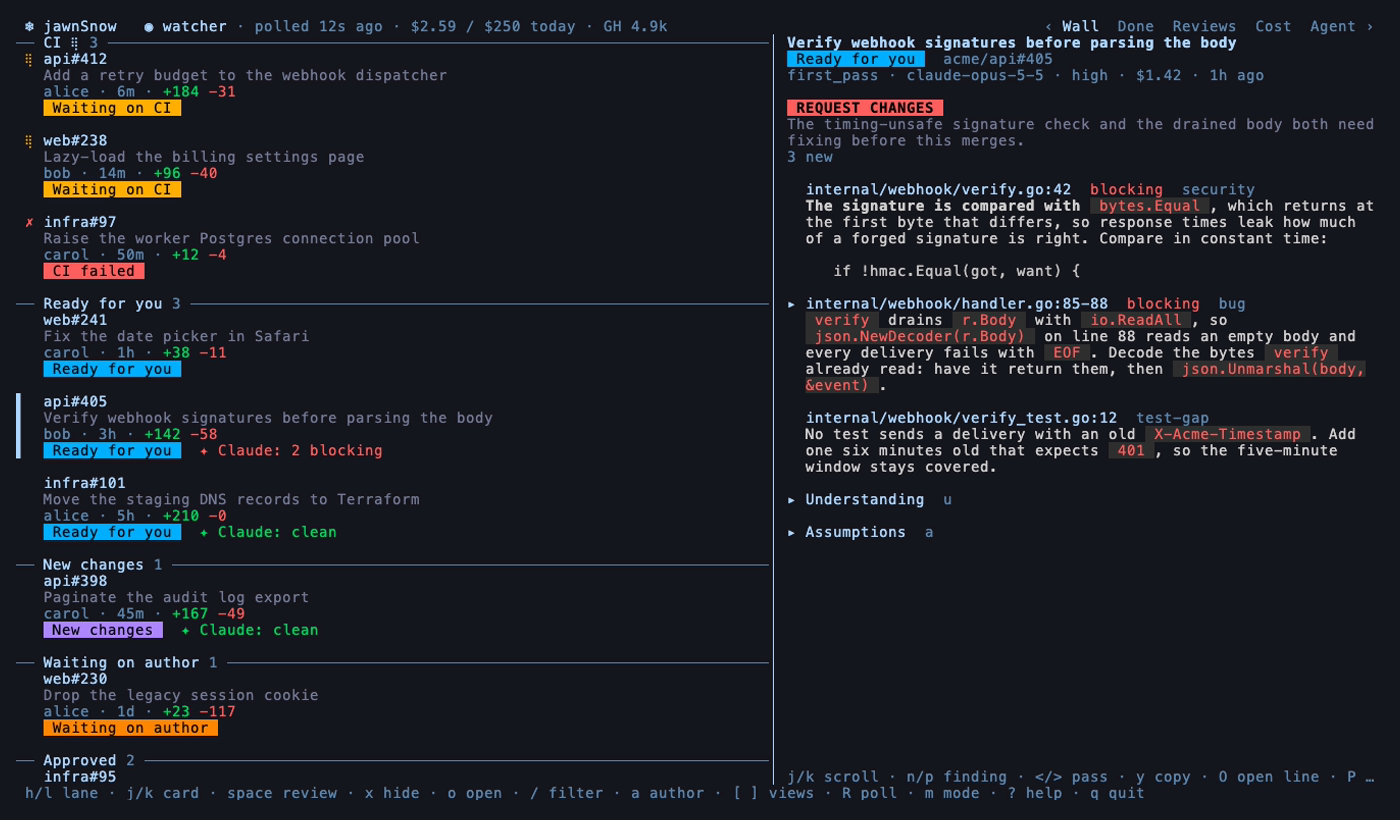
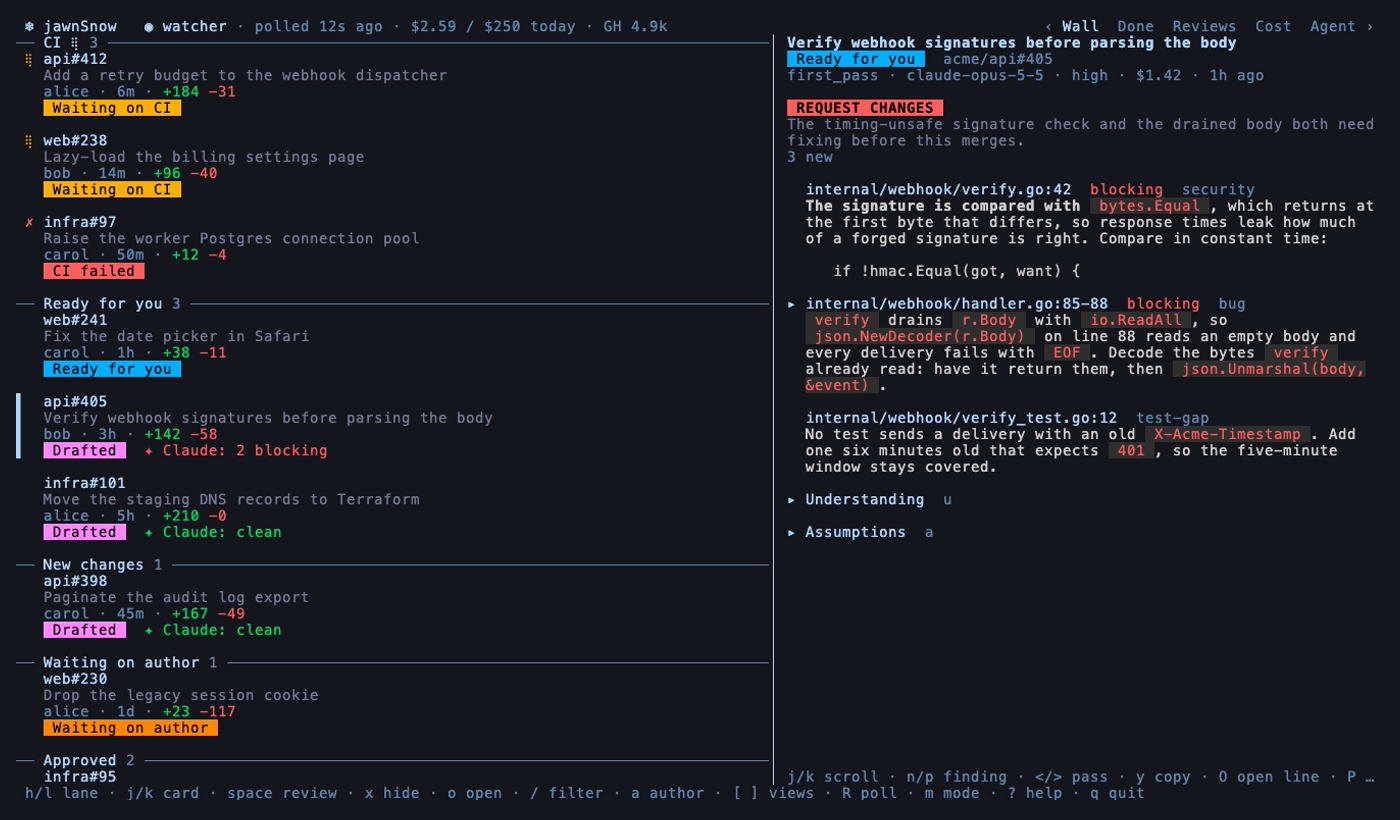
docs: describe the Drafted pill and re-record the demo
views.md says when a card shows Drafted and when it clears, and that it
is not a status. configuration.md lists the DRAFTED theme key, and
posting.md says the pill clears at once and which lane each event moves
the card to at the next poll.

The re-recorded drawer screenshot and demo show Drafted on the reviewed
cards in the stacked Wall. wall.png is unchanged: in side-by-side lanes
at the tape's width the pill and the badge don't both fit, so the badge
takes the chip's place as before.

Changed region(s): [[0.0307, 0.5183, 0.2764, 0.5793], [0.0307, 0.7317, 0.2457, 0.7927], [0.0307, 0.6402, 0.2457, 0.6707]]

diff --git a/docs/views.md b/docs/views.md
@@ -80,6 +80,29 @@ A card has four lines:
 
 The selected card has a bar in the accent colour on its left edge.
 
+### The Drafted pill
+
+A card shows `Drafted` in place of its status chip when the PR's latest Claude review is ready to post:
+
+- it finished with outcome complete, not incomplete or failed;
+- it is of the PR's current head commit;
+- it has never been posted.
+
+```
+   api#405
+   Verify webhook signatures before parsing the body
+   bob · 3h · +142 −58
+   Drafted  ✦ Claude: 2 blocking
+```
+
+The Claude badge stays beside it. The card stays in its lane: `Drafted` is not a status, so it changes no lane, count or Done view. While a review runs the card shows `⣾ Claude reviewing…` as usual, and its status chip.
+
+The pill goes as soon as you post the review from the drawer, and the card moves lanes at the poll that follows the post. See [after posting](posting.md#after-posting). A new commit on the PR also clears it, since the review is then of an older head.
+
+The pill takes the chip's place only where the chip would show. When the pill and the badge don't both fit, the badge alone shows, as it does with the chip. In side-by-side lanes on a 160-column terminal, `✦ Claude: clean` fits beside the pill but `✦ Claude: 2 blocking` doesn't. The stacked layout gives each card the full width, so there both usually fit.
+
+Its label and colour are set with [`[theme.status] DRAFTED`](configuration.md#themestatusstatus).
+
 ### The Claude badge
 
 | Badge | Means |
@@ -110,6 +133,8 @@ Each PR has exactly one status. The rules are checked in this order and the firs
 | 7 | `CHANGES_REQUESTED` | `Waiting on author` | `208` | none | your review requests changes, comments or was dismissed |
 | 8 | `CI_WAITING` | `Waiting on CI` | `214` | `dot` | you haven't reviewed, and a check that counts is pending at the head |
 | 9 | `READY_FOR_REVIEW` | `Ready for you` | `39` | none | you haven't reviewed, and CI is green or there are no checks |
+
+The [Drafted pill](#the-drafted-pill) is not a status: it changes only what a card shows, never its lane.
 
 Labels, colours and spinners can be changed in [`[theme.status]`](configuration.md#themestatusstatus). A running review spins the card's own spinner only when its status has one (by default `CI_WAITING` and `NEW_CHANGES`); otherwise the running review shows only in the badge, `⣾ Claude reviewing…`.
 

diff --git a/docs/posting.md b/docs/posting.md
@@ -133,6 +133,16 @@ When GitHub accepts the review:
 2. It looks up the review threads GitHub made for the inline comments and stores each thread's ID on its finding.
 3. It polls at once, so the PR's status catches up. A posted approval or change request, or a comment with a summary or at least one inline comment that starts a thread, is your review on GitHub: the PR moves lanes, and the next Claude review uses the `follow_up` tier.
 
+The card's [Drafted pill](views.md#the-drafted-pill) goes at once, before the poll. The poll then moves the card by the [status rules](views.md#statuses):
+
+| Event | Lane after the poll |
+| --- | --- |
+| Comment | Waiting on author (`CHANGES_REQUESTED`) |
+| Request changes | Waiting on author (`CHANGES_REQUESTED`) |
+| Approve | Approved: `APPROVED` once GitHub counts the PR approved, otherwise `APPROVED_BY_YOU` |
+
+A rule earlier in the order still wins: a PR whose CI failed at the head stays in the CI lane.
+
 The drawer then shows `Posted as Comment · just now` on that pass, and the Reviews view shows `✓`. The next pass gets the posted findings with their thread IDs, so it can read the author's replies in those threads and mark a finding answered. See [the ledger](reviews.md#the-earlier-findings-ledger).
 
 If the thread lookup fails, the post still stands and snow shows `posted, but could not look up its threads: <error>`. Those findings then don't count as posted for the checklist or the ledger.
@@ -146,6 +156,8 @@ What snow does depends on whether the review might have reached GitHub.
 - Posted but not recorded: GitHub took the review but writing the record failed. The modal shows `posted to GitHub, but saving the record failed: <error> — <review URL>`; `esc` or `enter` closes it. For the rest of the session the drawer still shows the post and the flow still asks before reposting, but after a restart snow has no record of it.
 
 If the flow was closed by the time the result arrived, these show as a notice instead.
+
+An unknown result and an unrecorded post both clear the card's Drafted pill, since the review may well be on GitHub. Neither is in the database, so after a restart the pill shows again until the review is posted.
 
 ## A second snow window
 

diff --git a/docs/configuration.md b/docs/configuration.md
@@ -527,7 +527,7 @@ The markdown style for review text in the drawer and the post preview: glow's da
 
 ### `theme.status.<STATUS>`
 
-Restyles one status. `<STATUS>` is one of the nine status names below; any other name is an error. Each takes `label`, `color` and `spinner`, and an unset key keeps the default.
+Restyles one status. `<STATUS>` is one of the nine status names below, or `DRAFTED`; any other name is an error. Each takes `label`, `color` and `spinner`, and an unset key keeps the default.
 
 | Key | Type | Valid values |
 | --- | --- | --- |
@@ -548,6 +548,14 @@ The defaults:
 | `APPROVED_BY_YOU` | `Approved by you · needs more` | `41` | `none` |
 | `MERGED` | `Merged` | `140` | `none` |
 | `CLOSED` | `Closed` | `244` | `none` |
+| `DRAFTED` | `Drafted` | `213` | `none` |
+
+`DRAFTED` is not a status. It styles the pill a Wall card shows in place of its status chip while the PR's latest Claude review is finished and not yet posted; see [the Drafted pill](views.md#the-drafted-pill). It never spins, so its `spinner` has no effect.
+
+```toml
+[theme.status]
+DRAFTED = { label = "Unposted", color = "177" }
+```
 
 A spinner only turns while the status is in progress: `CI_WAITING` always, and `NEW_CHANGES` while CI runs at the head. A spinner set on any other status shows only while a Claude review of that PR runs. The `CI_FAILED` card shows `✗` in place of a spinner. `APPROVED_BY_YOU` is drawn outlined instead of filled; that isn't configurable. [views.md](views.md#statuses) says when each status applies.
 
